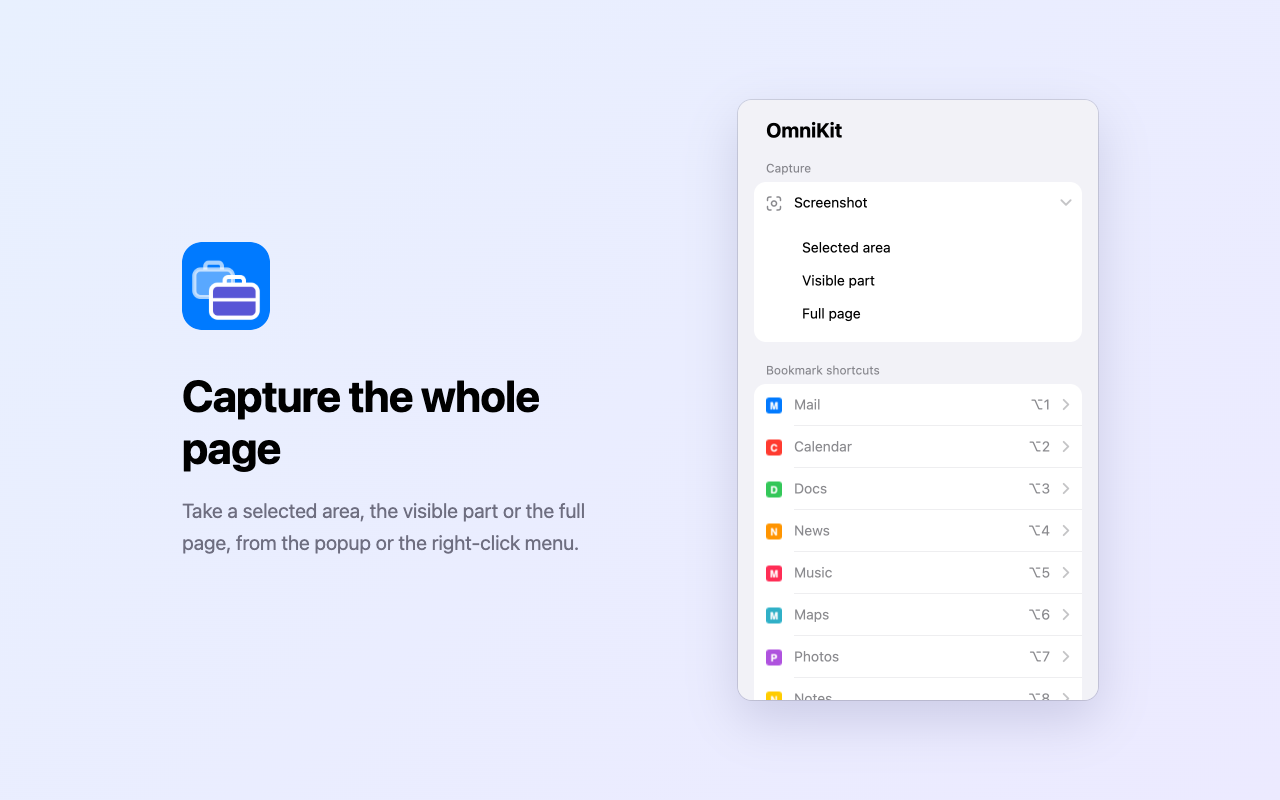
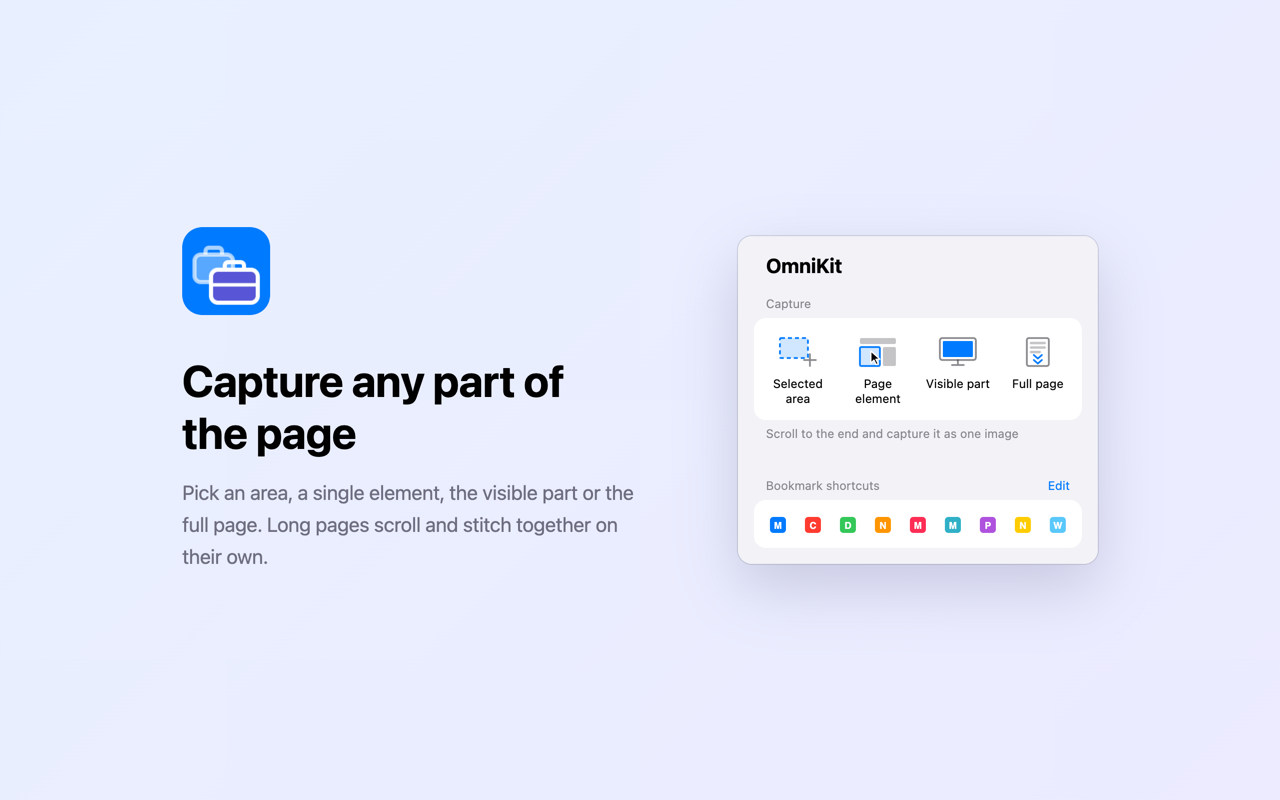
docs: 스토어 스크린샷을 지금 화면으로 다시 찍고 편집 화면 사진 추가

diff --git a/CHROMEWEBSTORE.md b/CHROMEWEBSTORE.md
@@ -18,7 +18,7 @@
 
 - 업로드할 파일: `npm run package`로 만든 `omni-kit-<버전>.zip` (`dist-release`에서 묶음, 이름이 `OmniKit DEV`가 아닌지 확인)
 - 스토어 아이콘: `public/icons/icon-128.png`
-- 스크린샷: `store-assets/screenshot-capture.png`, `store-assets/screenshot-editor.png`, `store-assets/screenshot-light.png`, `store-assets/screenshot-dark.png` (1280x800, 이 순서로 올림)
+- 스크린샷: `store-assets/screenshot-capture.png`, `store-assets/screenshot-editor.png`, `store-assets/screenshot-editor-hide.png`, `store-assets/screenshot-light.png`, `store-assets/screenshot-dark.png` (1280x800, 이 순서로 올림)
 - 개인정보처리방침 주소: 저장소의 `PRIVACY.md` (공개 저장소라 로그인 없이 열림)
   `https://github.com/Aleph-Kim/omni-kit/blob/main/PRIVACY.md` (예전 구글 문서는 1.1.0용 `1sGd32lTq3sTiYn3jhmwASDvhPUfhIt49H4Nvorv1hno`, 1.0.x용 `1XemSNDAWv9wfWYxrJtoz5U8VORFr2NuJjwyqCF605Uk`)
 - 홈페이지 주소: `https://github.com/Aleph-Kim/omni-kit`
@@ -442,17 +442,18 @@ OmniKit مفتوح المصدر بموجب ترخيص MIT. الشيفرة الم
 | 카테고리 (Category) | 도구 (Tools), 생산성은 묶음 제목이라 고를 수 없고 그 아래 항목 중 선택 |
 | 언어 (Language) | 영어 (English) |
 | 스토어 아이콘 (Store icon) | `public/icons/icon-128.png` 업로드 |
-| 전 언어 공통 스크린샷 (Global screenshots) | 준비물의 4장을 순서대로 업로드 (언어별 현지화 스크린샷 칸은 비워 둠) |
+| 전 언어 공통 스크린샷 (Global screenshots) | 준비물의 5장을 순서대로 업로드 (언어별 현지화 스크린샷 칸은 비워 둠) |
 | 홈페이지 URL (Homepage URL) | 준비물의 홈페이지 주소 (깃허브 저장소) |
 | 작은 프로모션 타일, 마키 타일, YouTube, 지원 URL | 비워 둠 (선택 항목) |
 | 성인용 콘텐츠 (Mature content) | 끔 |
 
 스크린샷 구성 (실제 빌드한 팝업 화면에 예시 북마크와 예시 페이지를 넣어 촬영, 개인 북마크 노출 방지. 영어 화면, 5~9번 단축키는 지정한 모습으로 표시)
 
-1. `screenshot-capture.png`: 라이트 모드, "스크린샷" 줄을 펼친 팝업 (Capture the whole page)
-2. `screenshot-editor.png`: 다크 모드, 예시 글 페이지를 전체 페이지로 찍은 뒤의 편집 화면
-3. `screenshot-light.png`: 라이트 모드, 9칸에 아이콘과 이름, 단축키가 표시된 팝업
-4. `screenshot-dark.png`: 다크 모드, 3번 칸을 펼쳐 북마크를 검색하는 팝업 (크롬 팝업 최대 높이 600px로 자름)
+1. `screenshot-capture.png`: 라이트 모드, 전체 페이지 버튼에 닿아 설명이 보이는 팝업 (Capture any part of the page)
+2. `screenshot-editor.png`: 라이트 모드, 예시 글 페이지에 도형, 펜, 화살표, 글자, 번호를 그린 편집 화면
+3. `screenshot-editor-hide.png`: 다크 모드, 예시 주문 페이지의 이메일, 전화, 주소를 모자이크하고 결제 수단을 흐리게 한 편집 화면
+4. `screenshot-light.png`: 라이트 모드, 2번 동그라미에 마우스를 올려 이름과 단축키 말풍선이 보이는 팝업
+5. `screenshot-dark.png`: 다크 모드, 편집을 펼치고 3번 칸에서 북마크를 검색하는 팝업 (크롬 팝업 최대 높이 600px로 자름)
 
 오른쪽 위 **임시저장 (Save draft)** 클릭
 
